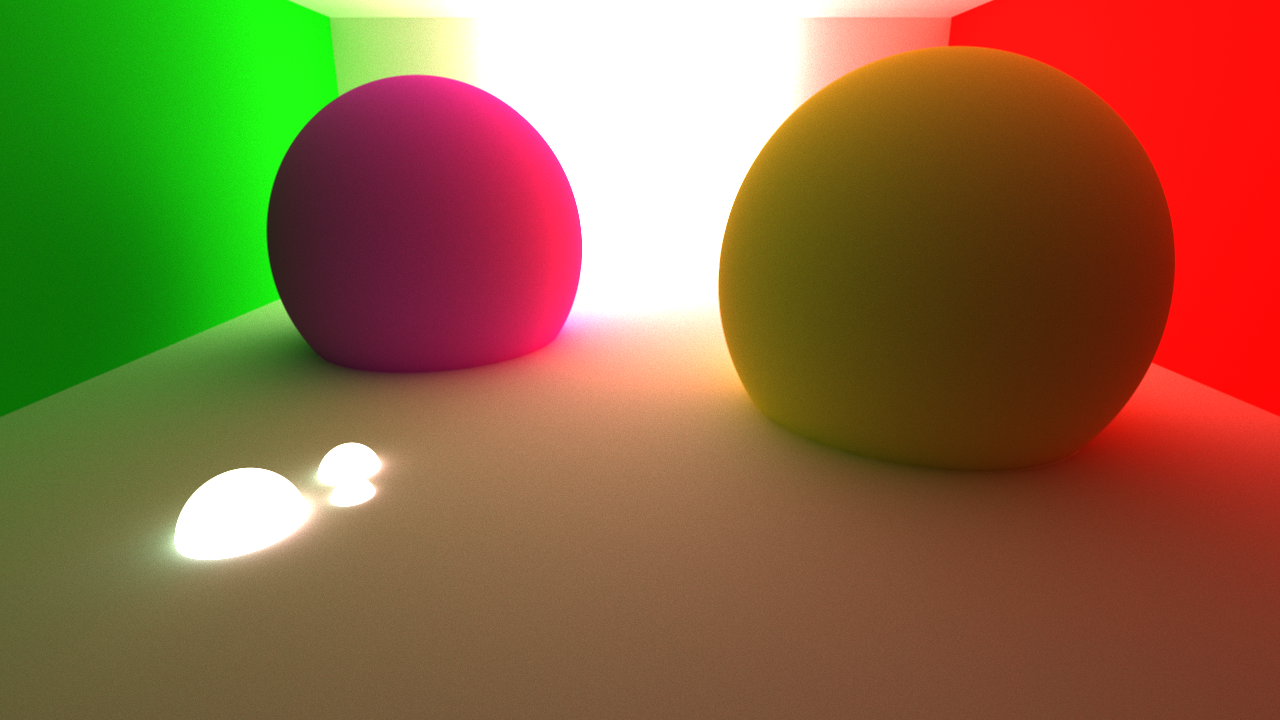
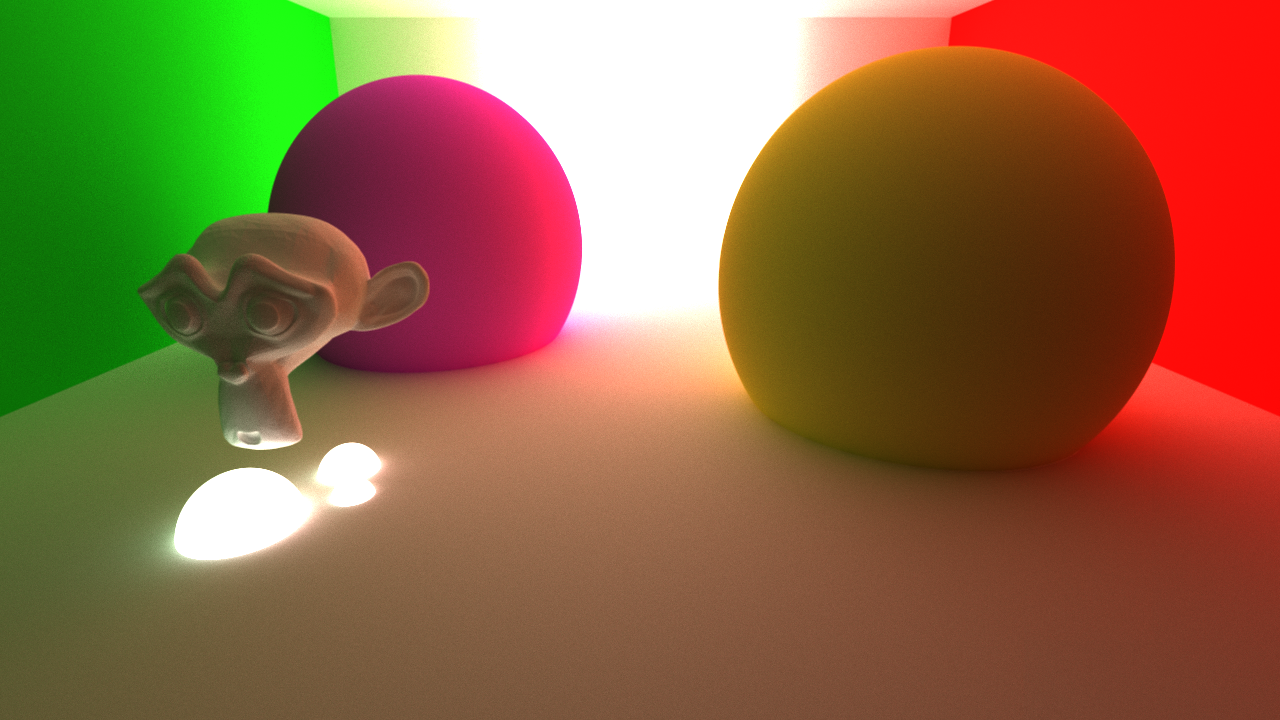
BRDF support

Changed region(s): [[0.0938, 0.275, 0.3438, 0.7028], [0.2812, 0.6111, 0.3438, 0.6417]]

diff --git a/Zaphod/Rendering/Scene.cpp b/Zaphod/Rendering/Scene.cpp
@@ -25,7 +25,9 @@ Scene::Scene(Camera* _cam)
 	Sphere* testSphere3 = new Sphere(2.5f, Vector3(-3.5f,0.5f,-1));
 
 	//Build a few test objects and materials
-	Box* testBox = new Box(Vector3(0, 10, -8), 20, 20, 0.1f);
+	Box* wallFront = new Box(Vector3(0, 10, -8), 20, 20, 0.1f);
+	Box* wallBack = new Box(Vector3(0, 10, 12), 20, 20, 0.1f);
+
 	Box* lightBox = new Box(Vector3(0, 3, -7), 3, 3, 0.1f);
 	Sphere* lightBox2 = new Sphere(0.3f, Vector3(-3, -1, 4));
 	Sphere* lightBox3 = new Sphere(0.5f, Vector3(-3.5f, -1, 5));
@@ -33,38 +35,45 @@ Scene::Scene(Camera* _cam)
 	
 	Box* lightBoxTop = new Box(Vector3(0, 5, 0), 20, 0.1f, 20);
 
-	Box* testBox2 = new Box(Vector3(0, -1.05f, 0), 20, 0.1f, 20);
-	Box* testBox3 = new Box(Vector3(-8, 10, 0), 0.1f, 20, 20);
-	Box* testBox4 = new Box(Vector3( 8, 10, 0), 0.1f, 20, 20);
-	Box* testBox5 = new Box(Vector3(0, 10, 11), 20, 20, 0.1f);
-	Mesh* monkey = new Mesh(Vector3(-3.5f, 0.5f, 4), "Data/test_smooth.obj");
+	Box* floor = new Box(Vector3(0, -1.05f, 0), 20, 0.1f, 20);
+	Box* wallLeft = new Box(Vector3(-8, 10, 0), 0.1f, 20, 20);
+	Box* wallRight = new Box(Vector3(8, 10, 0), 0.1f, 20, 20);
+	//Mesh* monkey = new Mesh(Vector3(-3.5f, 0.5f, 4), "Data/test_smooth.obj");
 
 	Material whiteMat;
 	whiteMat.DiffuseColor = Color(1.0f, 1.0f, 1.0f);
 
 	Material light = whiteMat;
 	light.DiffuseColor = Color(1, 1, 1);
-	light.Emittance = Color(2, 2, 2);
+	light.Emittance = Color(1, 1, 1);
 
 	Material lightTop = whiteMat;
 	lightTop.DiffuseColor = Color(1, 1, 1);
-	lightTop.Emittance = Color(0.1f, 0.1f, 0.1f);
+	lightTop.Emittance = Color(0.0f, 0.0f, 0.0f);
 
 	Material transparentMat;
 	transparentMat.DiffuseColor = Color(1.0f, 1.0f, 1.0f);
 
-
 	Material wallMat;
-	wallMat.DiffuseColor = Color(1.0f, 0.1f, 0.1f);
+	wallMat.DiffuseColor = Color(0.9f, 0.2f, 0.2f);
 
 	Material wallMatGreen = wallMat;
-	wallMatGreen.DiffuseColor = Color(0.1f, 1.0f, 0.1f);
+	wallMatGreen.DiffuseColor = Color(0.2f, 0.9f, 0.2f);
+
+	Material wallMatBlue = wallMat;
+	wallMatBlue.DiffuseColor = Color(0.2f, 0.2f, 0.9f);
 
 	Material floorMat;
 	floorMat.DiffuseColor = Color(1.0f, 1.0f, 1.0f);
+	floorMat.Roughness = 0.025f;
+	floorMat.Kd = 0.1f;
+	floorMat.Ks = 0.9f;
 
 	Material chromeMatBase;
 	chromeMatBase.DiffuseColor = Color(0.5f, 0.5f, 0.5f);
+	chromeMatBase.Roughness = 1;
+	chromeMatBase.Kd = 1.0f;
+	chromeMatBase.Ks = 0.0f;
 
 	Material chromeMatRed = chromeMatBase;
 	chromeMatRed.DiffuseColor = Color(1.0f, 0.3f, 1.0f);
@@ -72,31 +81,34 @@ Scene::Scene(Camera* _cam)
 	Material chromeMatBlue = chromeMatBase;
 	chromeMatBlue.DiffuseColor = Color(1.0f, 1.0f, 0.3f);
 
-	testBox->SetMaterial(whiteMat);
 	lightBox->SetMaterial(light);
 	lightBox2->SetMaterial(light);
 	lightBox3->SetMaterial(light);
 	lightBox4->SetMaterial(light);
 	lightBoxTop->SetMaterial(lightTop);
-	testBox2->SetMaterial(floorMat);
-	testBox3->SetMaterial(wallMatGreen);
-	testBox4->SetMaterial(wallMat);
+
+	wallFront->SetMaterial(whiteMat);
+	wallBack->SetMaterial(wallMatBlue);
+
+	floor->SetMaterial(floorMat);
+	wallLeft->SetMaterial(wallMatGreen);
+	wallRight->SetMaterial(wallMat);
 	testSphere->SetMaterial(transparentMat);
-	monkey->SetMaterial(whiteMat);
+	//monkey->SetMaterial(whiteMat);
 	testSphere2->SetMaterial(chromeMatBlue);
 	testSphere3->SetMaterial(chromeMatRed);
 
 	//m_SceneObjects.push_back(monkey);
-	m_SceneObjects.push_back(testBox);
+	m_SceneObjects.push_back(wallFront);
+	m_SceneObjects.push_back(wallBack);
 	m_SceneObjects.push_back(lightBox);
 	m_SceneObjects.push_back(lightBox2);
 	m_SceneObjects.push_back(lightBox3);
 	m_SceneObjects.push_back(lightBox4);
 	m_SceneObjects.push_back(lightBoxTop);
-	m_SceneObjects.push_back(testBox2);
-	m_SceneObjects.push_back(testBox3);
-	m_SceneObjects.push_back(testBox4);
-	m_SceneObjects.push_back(testBox5);
+	m_SceneObjects.push_back(floor);
+	m_SceneObjects.push_back(wallLeft);
+	m_SceneObjects.push_back(wallRight);
 	m_SceneObjects.push_back(testSphere2);
 	m_SceneObjects.push_back(testSphere3);
 	
@@ -141,29 +153,7 @@ float GetRnd()
 	return (float)rand()/RAND_MAX;
 }
 
-Vector3 RandomOffset(Vector3 _dir, float _factor) {
-	return _dir + Vector3((GetRnd() - 0.5f) * 0.2f * _factor, (GetRnd() - 0.5f) * 0.2f * _factor, (GetRnd() - 0.5f) * 0.2f * _factor);
-}
-
-Vector3 CosineSampleHemisphere(float u1, float u2)
-{
-	const float r = sqrt(u1);
-	const float theta = 2 * 3.141592653 * u2;
-
-	const float x = r * cos(theta);
-	const float y = r * sin(theta);
-
-	return Vector3(x, y, sqrt(fmax(0.0f, 1.0f - u1)));
-}
-
-Vector3 CosWeightedRandomHemisphereDirection2(Vector3 n)
-{
-	float Xi1 = (float)rand() / (float)RAND_MAX;
-	float Xi2 = (float)rand() / (float)RAND_MAX;
-
-	float  theta = acos(sqrt(1.0 - Xi1));
-	float  phi = 2.0 * 3.1415926535897932384626433832795 * Xi2;
-
+Vector3 HemisphereSample(float theta, float phi, Vector3 n) {
 	float xs = sinf(theta) * cosf(phi);
 	float ys = cosf(theta);
 	float zs = sinf(theta) * sinf(phi);
@@ -177,7 +167,6 @@ Vector3 CosWeightedRandomHemisphereDirection2(Vector3 n)
 	else
 		h.z = 1.0;
 
-
 	Vector3 x = (h.Cross(y));
 	x.Normalize();
 	Vector3 z = (x.Cross(y));
@@ -188,9 +177,55 @@ Vector3 CosWeightedRandomHemisphereDirection2(Vector3 n)
 	return direction;
 }
 
-Vector3 RandomPointOnHemisphere() {
-	return CosineSampleHemisphere(GetRnd(), GetRnd());
+Vector3 CosWeightedRandomHemisphereDirection2(Vector3 n)
+{
+	float Xi1 = (float)rand() / (float)RAND_MAX;
+	float Xi2 = (float)rand() / (float)RAND_MAX;
+
+	float  theta = acos(sqrt(1.0 - Xi1));
+	float  phi = 2.0 * 3.1415926535897932384626433832795 * Xi2;
+
+	return HemisphereSample(theta, phi, n);
 }
+
+Color BRDFDiffuse(const Scene& scene, int currentDepth, Intersection intersect, Vector3 view) {
+	Vector3 difDir = CosWeightedRandomHemisphereDirection2(intersect.normal);
+	Ray diffuseRay = Ray(intersect.position + difDir * 0.001f, difDir);
+	return scene.Intersect(diffuseRay, currentDepth - 1, true) * XM_PI;
+}
+
+Color BRDFPhong(const Scene& scene, int currentDepth, Intersection intersect, Vector3 view) {
+	float u = GetRnd();
+	if (u < intersect.material.Kd) {
+		return BRDFDiffuse(scene, currentDepth, intersect, view);
+	}
+
+	float ksd = intersect.material.Kd + intersect.material.Ks;
+	if (ksd < u) {
+		return Color(0, 0, 0);
+	}
+
+	Vector3 w1;
+	Vector3 ref = Vector3::Reflect(view, -intersect.normal);
+
+	if (intersect.material.Roughness == 0) {
+		w1 = ref;
+	} else {
+		float n = 1.0f / intersect.material.Roughness;
+
+		float u1 = GetRnd(), u2 = GetRnd();
+		float theta = acosf(pow(u1, 1.0f / (n + 1)));
+		float phi = 2 * XM_PI * u2;
+
+		w1 = HemisphereSample(theta, phi, ref);
+	}
+
+
+	Ray specRay = Ray(intersect.position + w1 * 0.001f, w1);
+	return scene.Intersect(specRay, currentDepth - 1, true);
+}
+
+
 
 //Intersect a ray with the scene (currently no optimization)
 Color Scene::Intersect(const DirectX::SimpleMath::Ray& _ray, int _depth, bool _isSecondary) const
@@ -224,9 +259,10 @@ Color Scene::Intersect(const DirectX::SimpleMath::Ray& _ray, int _depth, bool _i
 	Color reflected(0, 0, 0);
 	float rnd = GetRnd();
 	int storedCount = 0;
-	if (_isSecondary && rnd < 1.0f / (_depth + 1) && m_LightCache->LookUp(minIntersect.position, &reflected, &storedCount) && GetRnd() < storedCount * 0.1f) {
+	
+	/*if (_isSecondary && rnd < 1.0f / (_depth + 1) && m_LightCache->LookUp(minIntersect.position, &reflected, &storedCount) && GetRnd() < storedCount * 0.1f) {
 		return reflected;
-	} else if (_depth == 0) {
+	} else*/ if (_depth == 0) {
 		return Color(0, 0, 0);
 	}
 
@@ -235,22 +271,17 @@ Color Scene::Intersect(const DirectX::SimpleMath::Ray& _ray, int _depth, bool _i
 	const int DIFFUSE_SAMPLES = 1;
 
 	for (int i = 0; i < DIFFUSE_SAMPLES; i++)  {
-		/*Vector3 dir = RandomPointOnHemisphere();
-		Vector3 offset = dir - Vector3(0, 0, 1);*/
-		Vector3 difDir = CosWeightedRandomHemisphereDirection2(minIntersect.normal); // +offset;
-		//difDir.Normalize();
-
-		Ray diffuseRay = Ray(minIntersect.position + difDir * 0.001f, difDir);
-		reflected += Intersect(diffuseRay, _depth - 1, true);
+		reflected += BRDFPhong(*this, _depth, minIntersect, _ray.direction);
 	}
 
 	Color BRDF = minIntersect.material.DiffuseColor / DIFFUSE_SAMPLES;
 	
 	Color final = (emittance + (BRDF * reflected));
 
-	if (storedCount < 10) {
+	/*if (storedCount < 10) {
 		m_LightCache->AddPoint(minIntersect.position, final);
-	}
+	}*/
+
 	return final ;
 }
 

diff --git a/Zaphod/Rendering/Raytracer.cpp b/Zaphod/Rendering/Raytracer.cpp
@@ -6,8 +6,8 @@
 using namespace DirectX::SimpleMath;
 
 #define MULTI_THREADED
-#define SAMPLES 3000
-#define TILE_SIZE 128
+#define SAMPLES 10000
+#define TILE_SIZE 256
 
 Raytracer::Raytracer(void)
 {
@@ -89,6 +89,12 @@ void Raytracer::RenderPart(int _x, int _y, int _width, int _height)
 				m_RawPixels[x + m_Width * y] += rayColor;
 				Color current = m_RawPixels[x + m_Width * y] / (i+1);
 				current.Saturate();
+				/*Color x = current - Color(0.004f, 0.004f, 0.004f);
+				x.x = x.x < 0 ? 0 : x.x;
+				x.y = x.y < 0 ? 0 : x.y;
+				x.z = x.z < 0 ? 0 : x.z;
+
+				current = (x*(6.2f*x + Color(.5f, .5f, .5f))) / (x*(6.2f*x + Color(1.7f, 1.7f, 1.7f)) + Color(0.06f, 0.06f, 0.06f));*/
 
 				sf::Color newCol((sf::Uint8)(current.R() * 255), (sf::Uint8)(current.G() * 255), (sf::Uint8)(current.B() * 255), 255);
 

diff --git a/Zaphod/Material.h b/Zaphod/Material.h
@@ -1,11 +1,12 @@
 #pragma once
 #include "SimpleMath.h"
 
-struct Material
-{
+struct Material {
 	DirectX::SimpleMath::Color DiffuseColor;
 	DirectX::SimpleMath::Color Emittance;
+	float Kd;
+	float Ks;
 	float Roughness;
-	Material() : Roughness(1), DiffuseColor(0, 0, 0), Emittance(0, 0, 0) { }
+	Material() : Kd(1), Ks(0), Roughness(1), DiffuseColor(0, 0, 0), Emittance(0, 0, 0) { }
 };
 

diff --git a/Zaphod/Rendering/Raytracer.h b/Zaphod/Rendering/Raytracer.h
@@ -16,7 +16,7 @@ class Scene;
 class Raytracer
 {
 private:
-	static const int THREAD_COUNT = 7;
+	static const int THREAD_COUNT = 6;
 	
 	struct TileInfo {
 		int X, Y, Width, Height;

diff --git a/Zaphod/main.cpp b/Zaphod/main.cpp
@@ -46,7 +46,8 @@ int main()
 		//tex.copyToImage().saveToFile("Output.png");
 		window.draw(renderSprite);
         window.display();
-    }
+		_sleep(33);
+	}
 
 	rt.Shutdown();
 
